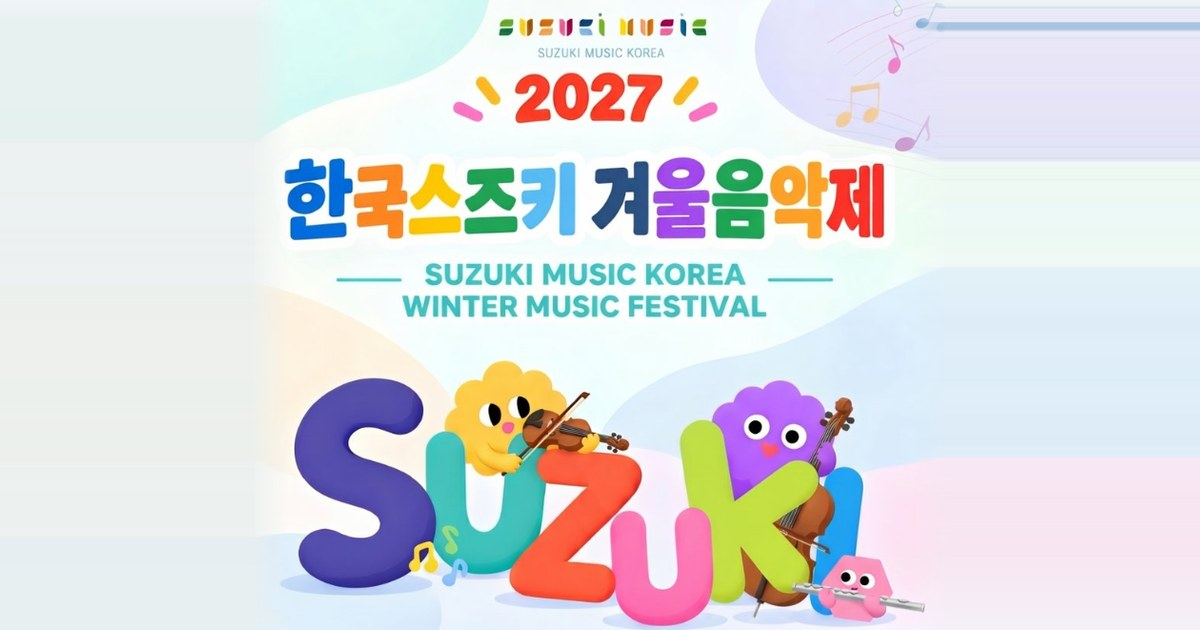
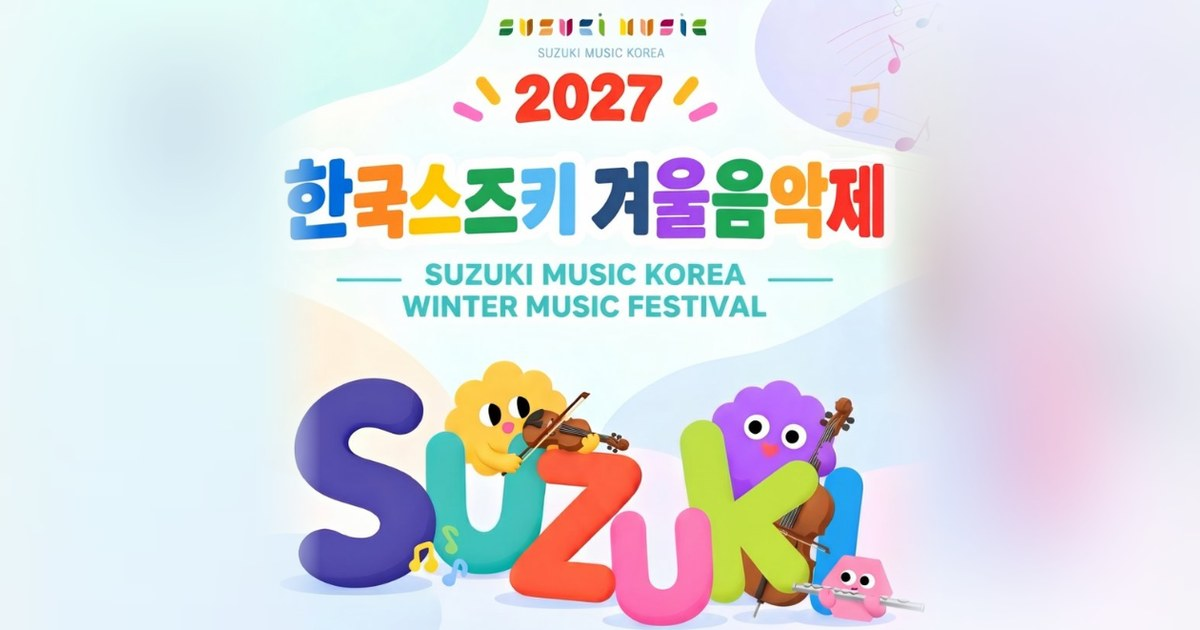
camp: 포스터 공유 그림 양옆 자연스럽게 · 접수 · 새 접수 공유 제목 · 설명
Claude-Session: https://claude.ai/code/session_01McH2SMSpo6xGfG1xFNNs6e

diff --git a/camp/new.html b/camp/new.html
@@ -9,13 +9,13 @@
   새 접수 · 가족방 화면 미리보기 (2026-11-20) — 기존 접수 화면은 그대로, 가상 데이터만
   · https://app.suzukimusickorea.org/camp/new.html  → 메인 ?page=new · new.html?test → STG
 -->
-<meta name="description" content="2027 스즈키 겨울 음악제 접수 · 회원 선생님 로그인 · 원장님 학원 관리">
-<meta property="og:title" content="2027 스즈키 겨울 음악제 접수">
-<meta property="og:description" content="회원 선생님 로그인 · 원장님 학원 관리">
+<meta name="description" content="2027년 1월 11일(월)~15일(금) · 덕산 스플라스 리솜리조트 · 12월 1일부터 접수해요. 회원 선생님 로그인 · 원장님 학원 관리.">
+<meta property="og:title" content="2027 한국스즈키 겨울음악제 접수">
+<meta property="og:description" content="2027년 1월 11일(월)~15일(금) · 덕산 스플라스 리솜리조트 · 12월 1일부터 접수해요. 회원 선생님 로그인 · 원장님 학원 관리.">
 <meta property="og:url" content="https://app.suzukimusickorea.org/camp/new.html">
 <meta property="og:type" content="website">
 <meta property="og:site_name" content="스즈키 겨울 음악제">
-<meta property="og:image" content="https://app.suzukimusickorea.org/camp/og-poster.jpg?v=1">
+<meta property="og:image" content="https://app.suzukimusickorea.org/camp/og-poster.jpg?v=2">
 <meta property="og:image:width" content="1200">
 <meta property="og:image:height" content="630">
 <meta name="twitter:card" content="summary_large_image">

diff --git a/camp/index.html b/camp/index.html
@@ -14,13 +14,13 @@
   · 주소 뒤에 ?test 를 붙이면 테스트(STG) 앱이 열림: …/suzuki/camp/?test , …/suzuki/camp/admin.html?test
   · 앱 주소가 바뀌면 아래 PROD · STG 줄만 바꾸면 됨.
 -->
-<meta name="description" content="음악캠프 접수 테스트 페이지 입니다.">
+<meta name="description" content="2027년 1월 11일(월)~15일(금) · 덕산 스플라스 리솜리조트 · 12월 1일부터 접수해요.">
 <meta property="og:type" content="website">
 <meta property="og:site_name" content="스즈키 겨울 음악제">
-<meta property="og:title" content="[STG]스즈키음악캠프 접수 테스트">
-<meta property="og:description" content="음악캠프 접수 테스트 페이지 입니다.">
+<meta property="og:title" content="2027 한국스즈키 겨울음악제 접수">
+<meta property="og:description" content="2027년 1월 11일(월)~15일(금) · 덕산 스플라스 리솜리조트 · 12월 1일부터 접수해요.">
 <meta property="og:url" content="https://app.suzukimusickorea.org/camp/">
-<meta property="og:image" content="https://app.suzukimusickorea.org/camp/og-poster.jpg?v=1">
+<meta property="og:image" content="https://app.suzukimusickorea.org/camp/og-poster.jpg?v=2">
 <meta property="og:image:width" content="1200">
 <meta property="og:image:height" content="630">
 <meta name="twitter:card" content="summary_large_image">  

diff --git a/camp/parent.html b/camp/parent.html
@@ -16,7 +16,7 @@
 <meta property="og:description" content="학원에서 받은 주소로 캠프 참가를 신청해요. 회원가입 없이 보호자 이름 · 휴대전화로.">
 <meta property="og:type" content="website">
 <meta property="og:site_name" content="스즈키 겨울 음악제">
-<meta property="og:image" content="https://app.suzukimusickorea.org/camp/og-poster.jpg?v=1">
+<meta property="og:image" content="https://app.suzukimusickorea.org/camp/og-poster.jpg?v=2">
 <meta property="og:image:width" content="1200">
 <meta property="og:image:height" content="630">
 <meta name="twitter:card" content="summary_large_image">
